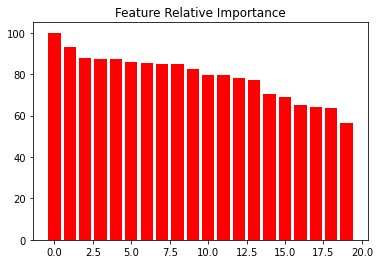
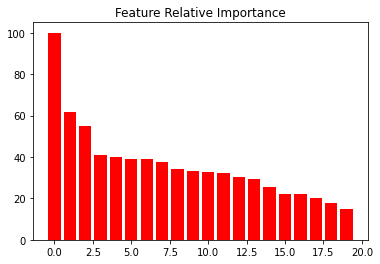
update

Changed region(s): [[0.1447, 0.1515, 0.9263, 0.8182]]

diff --git a/Step_2_analyse_data.py b/Step_2_analyse_data.py
@@ -20,7 +20,6 @@ from sklearn import metrics
 import datetime
 
 
-
 ###################################################
 # Global Param
 
@@ -28,8 +27,6 @@ OUTPUT_PATH = "web_data/"
 OUTPUT_FILENAME_PREFIX = "web_data_"
 
 STOCK_DATA_PATH = "SPY.csv"
-
-GLOBAL_MODEL_VARIABLE = True    # Save model training variable to global envirnoment
 
 
 ###################################################
@@ -219,10 +216,9 @@ def make_sentiment_features_NLTK(df):
 def ml_random_forest(df_x, df_y):
     """Random forest model"""
     
-    # Global variables
-    if (GLOBAL_MODEL_VARIABLE):
-        global x_train, x_test, y_train, y_test
-        global y_pred_train, y_pred
+    # Save model training variable to global envirnoment
+    global x_train, x_test, y_train, y_test
+    global y_pred_train, y_pred
     
     # Training and test set split
     test_date = datetime.datetime(2020, 6, 1)
@@ -328,37 +324,37 @@ df_feature_textblob_sentiment = make_sentiment_features_textblob(df)
 df_feature_NLTK_sentiment = make_sentiment_features_NLTK(df)
 
 
-#%% random forest model 1, TextBlob predict volume
+#%% random forest model 1, TextBlob prediction
 
 df_all_1 = df_feature_textblob_sentiment.set_index('date').join(df_spy.set_index('date'), how = "inner")
 
 best_rf, grid_search, features_name = ml_random_forest(
     df_all_1.iloc[:, 0:40], 
-    df_all_1["volume_large_next_1"]
+    df_all_1["direction_up_next_1"]
 )
 
 # For stock price direction, use ["direction_up_next_1"]
 # For trade volume size, use ["volume_large_next_1"]
 
 
-#%% random forest model 2, NLTK predict volume
+#%% random forest model 2, NLTK prediction
 
 df_all_2 = df_feature_NLTK_sentiment.set_index('date').join(df_spy.set_index('date'), how = "inner")
 
 best_rf, grid_search, features_name = ml_random_forest(
     df_all_2.iloc[:, 0:20], 
-    df_all_2["volume_large_next_1"]
+    df_all_2["direction_up_next_1"]
 )
 
 
 
-#%% random forest model 3, NLTK content only predicting volume
+#%% random forest model 3, NLTK prediction using contents only
 
 df_all_3 = df_feature_NLTK_sentiment.set_index('date').join(df_spy.set_index('date'), how = "inner")
 
 best_rf, grid_search, features_name = ml_random_forest(
     df_all_3.iloc[:, [1, 14, 15, 16, 17 ,18 ,19]], 
-    df_all_3["volume_large_next_1"]
+    df_all_3["direction_up_next_1"]
 )
 
 
@@ -395,7 +391,7 @@ print(df_importance)
 # def prob_cut_off(x, low_cut, up_cut):
 #     if (x < low_cut):
 #         return False, True            # False
-#     elif (x > up_cut):
+#     elif (x >= up_cut):
 #         return True, True            # True
 #     else:
 #         return True, False            # No conclusion
@@ -403,7 +399,7 @@ print(df_importance)
 # 
 # df_pred_prob = pd.DataFrame(best_rf.predict_proba(x_test), columns = ["F_prob", "T_prob"])
 # 
-# result = df_pred_prob["F_prob"].apply(lambda x: prob_cut_off(x, 0.4, 0.6))
+# result = df_pred_prob["F_prob"].apply(lambda x: prob_cut_off(x, 0.7, 0.3))
 # df_pred_prob["result"] = result.apply(lambda x: x[0])
 # df_pred_prob["has_result"] = result.apply(lambda x: x[1])
 # 
@@ -411,7 +407,7 @@ print(df_importance)
 # 
 # a = df_pred_prob["has_result"]
 # 
-# metrics.confusion_matrix(np.array(y_test)[a], np.array(y_pred)[a])
-# metrics.accuracy_score(np.array(y_test)[a], np.array(y_pred)[a])
+# print(metrics.confusion_matrix(np.array(y_test)[a], df_pred_prob["result"][a]))
+# print(metrics.accuracy_score(np.array(y_test)[a], df_pred_prob["result"][a]))
+# 
 # =============================================================================
-
